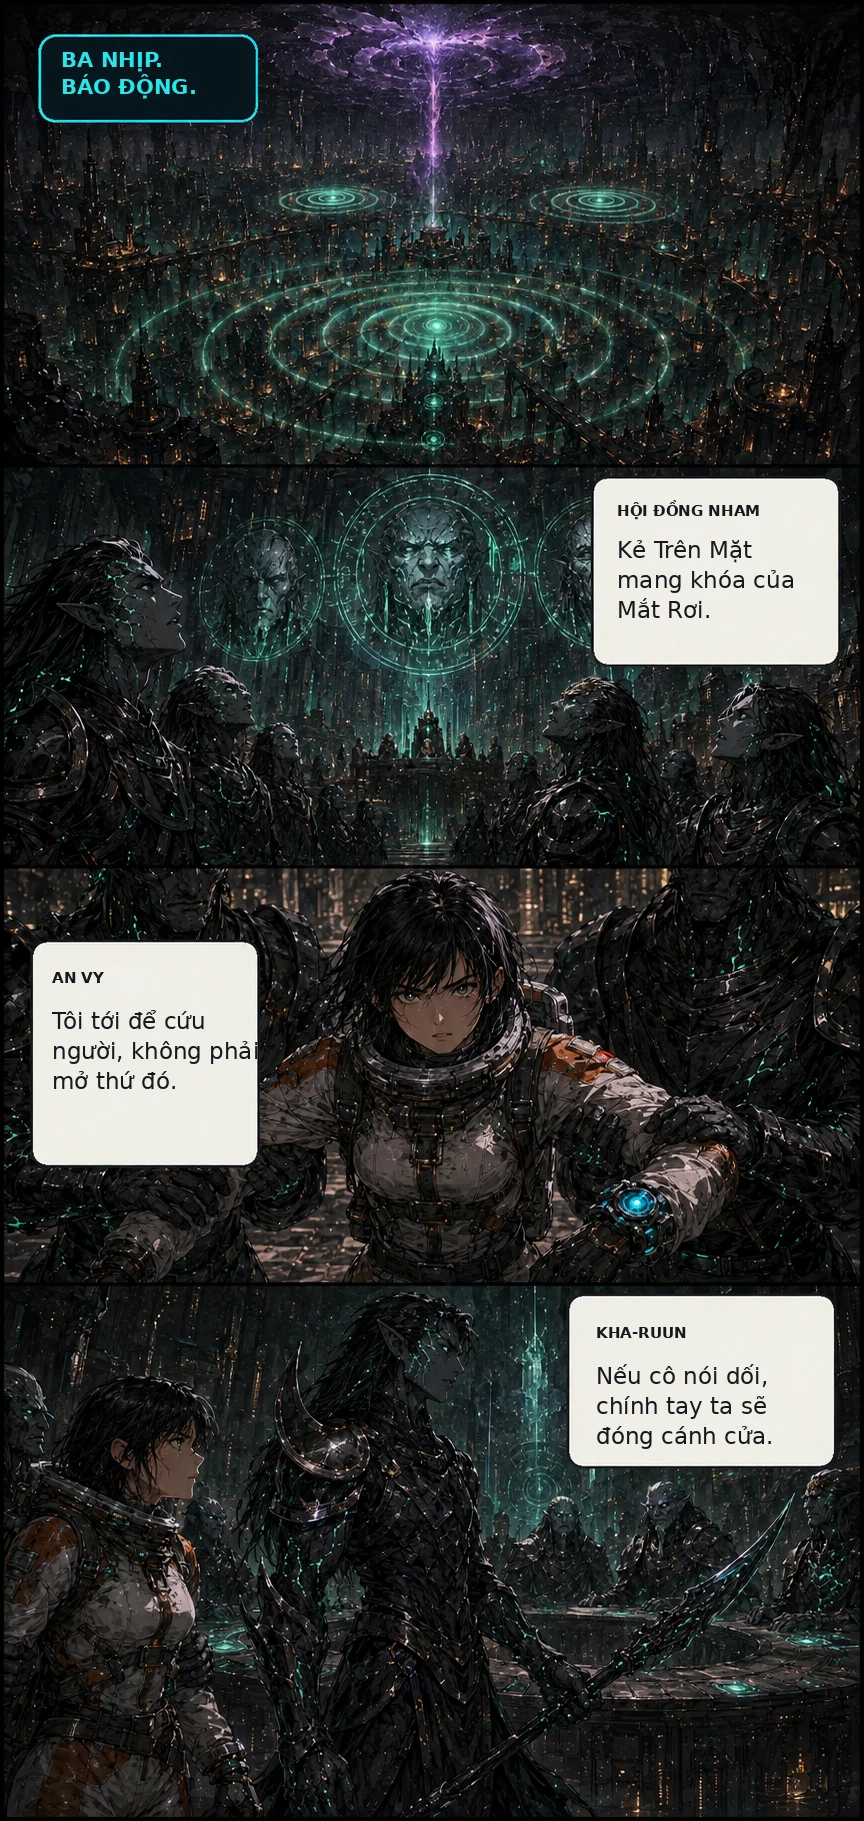
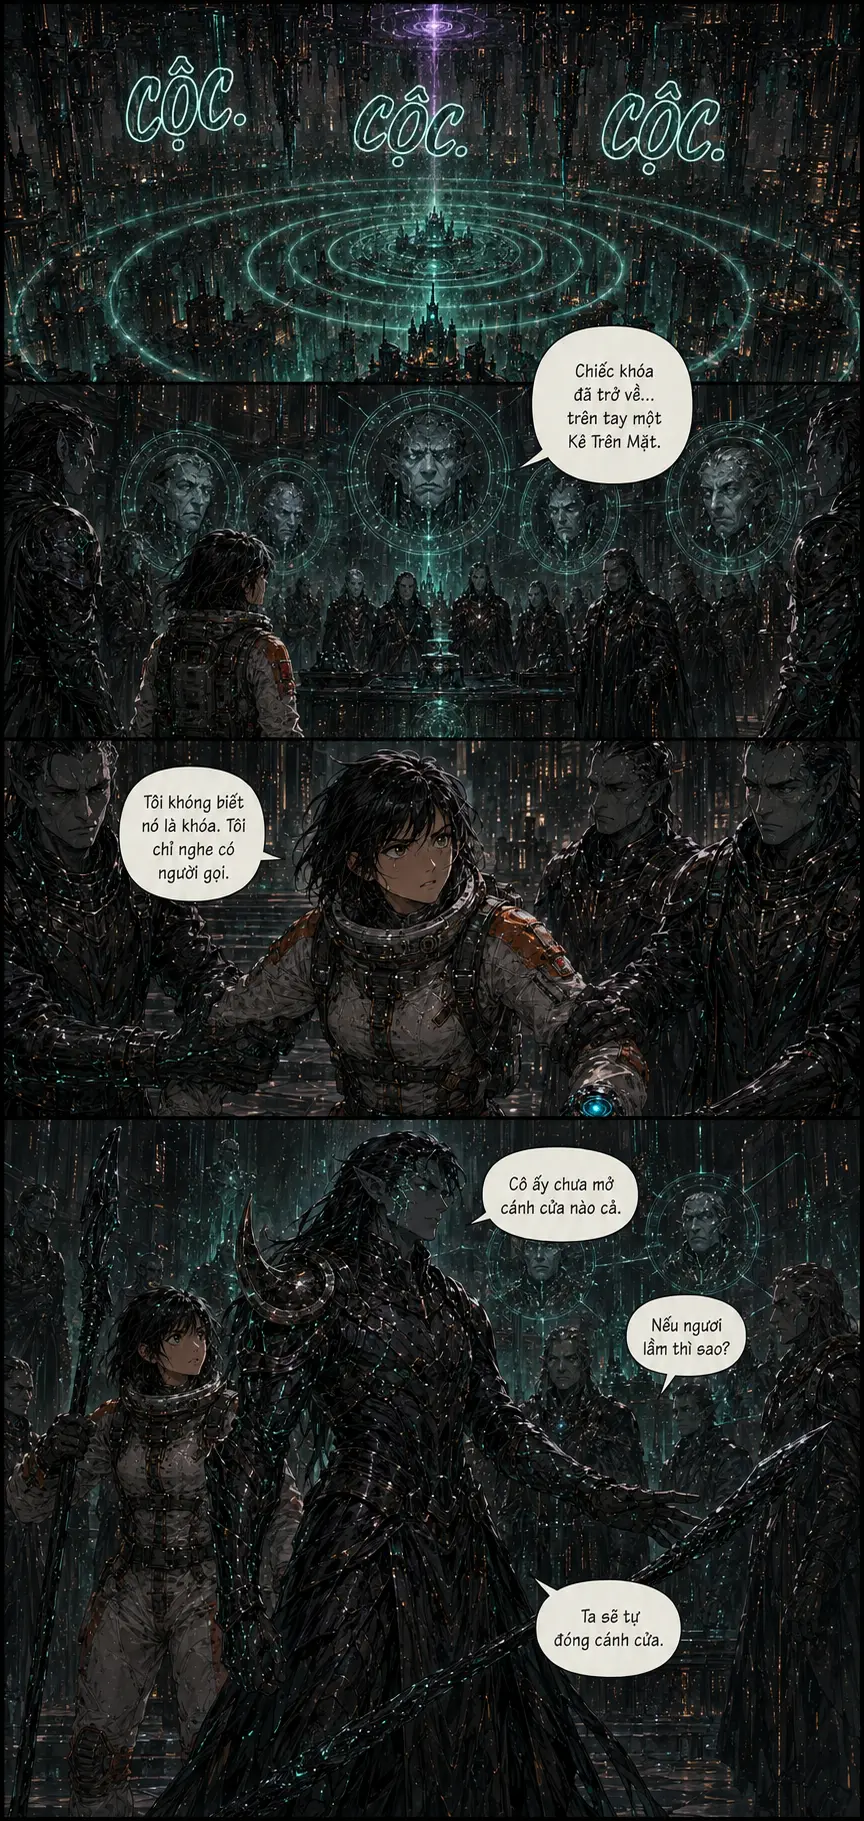
Làm tự nhiên thoại trang 5-6 Vết Thủng 2237

diff --git a/vet-thung-2237/story-data.js b/vet-thung-2237/story-data.js
@@ -7,8 +7,8 @@ const STORY = {
     {number: 2, image: 'assets/pages/page-02.webp?v=dialogue-20260811', title: 'Ba nhịp', alt: 'An Vy bất chấp lệnh dừng và nghe ba nhịp từ dưới hố sâu'},
     {number: 3, image: 'assets/pages/page-03.webp?v=dialogue-20260811-p34', title: 'Kẻ Trên Mặt', alt: 'An Vy chạm trán Kha-Ruun ở độ sâu 91 ki-lô-mét'},
     {number: 4, image: 'assets/pages/page-04.webp?v=dialogue-20260811-p34', title: 'Bầu trời thứ hai', alt: 'Kha-Ruun cứu An Vy trước khi Nham Cung hiện ra'},
-    {number: 5, image: 'assets/pages/page-05.webp', title: 'Nham Cung báo động', alt: 'An Vy và Kha-Ruun bị đưa ra trước Hội Đồng Nham'},
-    {number: 6, image: 'assets/pages/page-06.webp', title: 'Lệnh xuyên vỏ', alt: 'Chỉ huy Bách kích hoạt đầu đạn địa tầng trên mặt đất'},
+    {number: 5, image: 'assets/pages/page-05.webp?v=dialogue-20260811-p56', title: 'Nham Cung báo động', alt: 'Kha-Ruun đứng ra bảo chứng cho An Vy trước Hội Đồng Nham'},
+    {number: 6, image: 'assets/pages/page-06.webp?v=dialogue-20260811-p56', title: 'Lệnh xuyên vỏ', alt: 'Chỉ huy Bách chuẩn bị đầu đạn xuyên vỏ sau khi mất tín hiệu An Vy'},
     {number: 7, image: 'assets/pages/page-07.webp', title: 'Ký ức trong đá', alt: 'An Vy và Kha-Ruun nhìn thấy ký ức Mắt Rơi được phóng khỏi Nham Cung'},
     {number: 8, image: 'assets/pages/page-08.webp', title: 'Hai phía khai hỏa', alt: 'Đầu đạn bề mặt và pháo địa nhiệt cùng nhắm vào trục xuyên vỏ'},
     {number: 9, image: 'assets/pages/page-09.webp', title: 'Mắt mở', alt: 'Mắt Rơi tách vỏ thành một mống mắt cơ khí khổng lồ'},

diff --git a/vet-thung-2237/index.html b/vet-thung-2237/index.html
@@ -75,7 +75,7 @@
     </nav>
   </section>
 
-  <script src="story-data.js?v=dialogue-20260811-p34"></script>
+  <script src="story-data.js?v=dialogue-20260811-p56"></script>
   <script src="app.js"></script>
 </body>
 </html>

diff --git a/vet-thung-2237/docs/qa-log.md b/vet-thung-2237/docs/qa-log.md
@@ -42,7 +42,16 @@
 - Đã giữ thiết bị cyan trên cổ tay phải An Vy và chuyển cảnh liên tục từ lần tiếp xúc đầu tiên sang toàn cảnh Nham Cung.
 - Đã đối chiếu sáu câu thoại/lời dẫn trang 4 và năm mục chữ trang 3; không phát hiện sai dấu hoặc chữ bị cắt.
 
+## Audit thoại tự nhiên trang 5–6 — 11/08/2026
+
+- Đã thay mới trang 5 “Nham Cung báo động” và trang 6 “Lệnh xuyên vỏ” bằng ảnh gen hoàn chỉnh cùng bong bóng thoại tiếng Việt.
+- Hội Đồng Nham chuyển từ lời tuyên án một chiều sang đối thoại chất vấn; Kha-Ruun công khai nhận trách nhiệm cho An Vy.
+- Chỉ huy Bách vẫn ra lệnh chuẩn bị đầu đạn nhưng lộ rõ nỗi sợ mất thêm một thành phố, giữ đúng lịch sử nhân vật.
+- Đã sửa nữ kỹ thuật viên thành nhân vật riêng với tóc búi, tai nghe và đồng phục xanh hải quân để không bị nhầm với An Vy đang ở dưới lòng đất.
+- Đã giữ thiết bị cyan trên cổ tay phải An Vy, tạo hình người của Kha-Ruun, sẹo qua lông mày trái của Bách và một đầu đạn chưa phóng.
+- Đã đối chiếu toàn bộ chữ trong ảnh với kịch bản; không phát hiện sai dấu, chữ bị cắt hoặc nhãn tên người nói.
+
 ## Trạng thái
 
 - Chương 1 hoàn tất: 12/12 trang.
-- Lượt audit tiếp theo tiếp tục làm mềm thoại và thay trang 5–6 theo chuẩn bong bóng thoại mới.
+- Lượt audit tiếp theo tiếp tục làm mềm thoại và thay trang 7–8 theo chuẩn bong bóng thoại mới.

diff --git a/vet-thung-2237/chapters/chuong-01.md b/vet-thung-2237/chapters/chuong-01.md
@@ -34,17 +34,20 @@
 
 ### Trang 5 — Nham Cung báo động
 
-- Dẫn: “Ba nhịp. Báo động.”
-- Hội Đồng Nham: “Kẻ Trên Mặt mang khóa của Mắt Rơi.”
-- An Vy: “Tôi tới để cứu người, không phải mở thứ đó.”
-- Kha-Ruun: “Nếu cô nói dối, chính tay ta sẽ đóng cánh cửa.”
+- Hiệu ứng: “Cộc. Cộc. Cộc.”
+- Hội Đồng Nham: “Chiếc khóa đã trở về... trên tay một Kẻ Trên Mặt.”
+- An Vy: “Tôi không biết nó là khóa. Tôi chỉ nghe có người gọi.”
+- Kha-Ruun: “Cô ấy chưa mở cánh cửa nào cả.”
+- Hội Đồng Nham: “Nếu ngươi lầm thì sao?”
+- Kha-Ruun: “Ta sẽ tự đóng cánh cửa.”
 
 ### Trang 6 — Lệnh xuyên vỏ
 
 - Dẫn: “Trên mặt đất. Mất tín hiệu: 04 phút 12 giây.”
-- Bách: “Mười phút nữa khóa trục. Không để thứ dưới đó bò lên.”
-- Kỹ thuật viên: “Còn An Vy?”
-- Bách: “Cô ấy biết quy tắc cứu hộ: một người không đổi lấy một thành phố.”
+- Bách: “Khóa trục sau mười phút. Chuẩn bị đầu đạn xuyên vỏ.”
+- Kỹ thuật viên: “Còn An Vy thì sao, chỉ huy?”
+- Bách: “Nếu còn sống, cô ấy sẽ tìm đường về.”
+- Bách: “...Chúng ta không được mất thêm một thành phố.”
 
 ### Trang 7 — Ký ức trong đá
 
